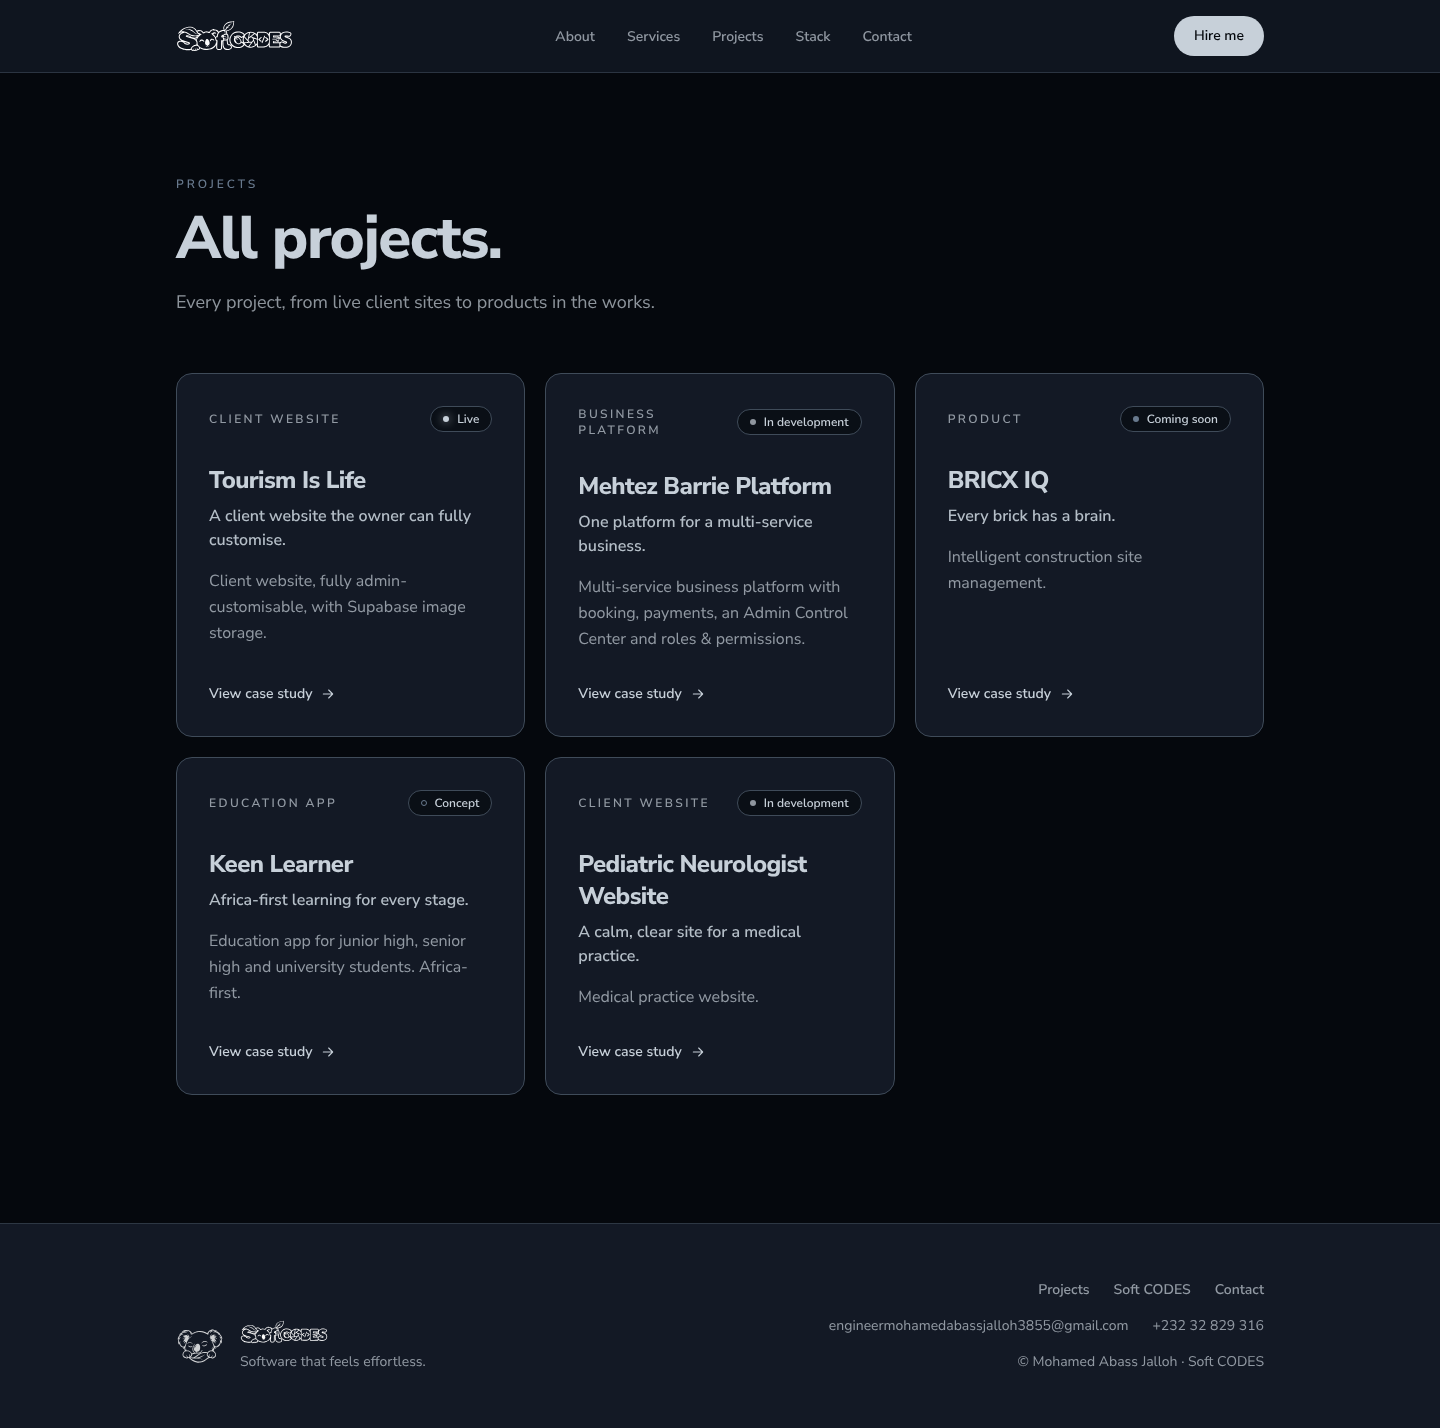
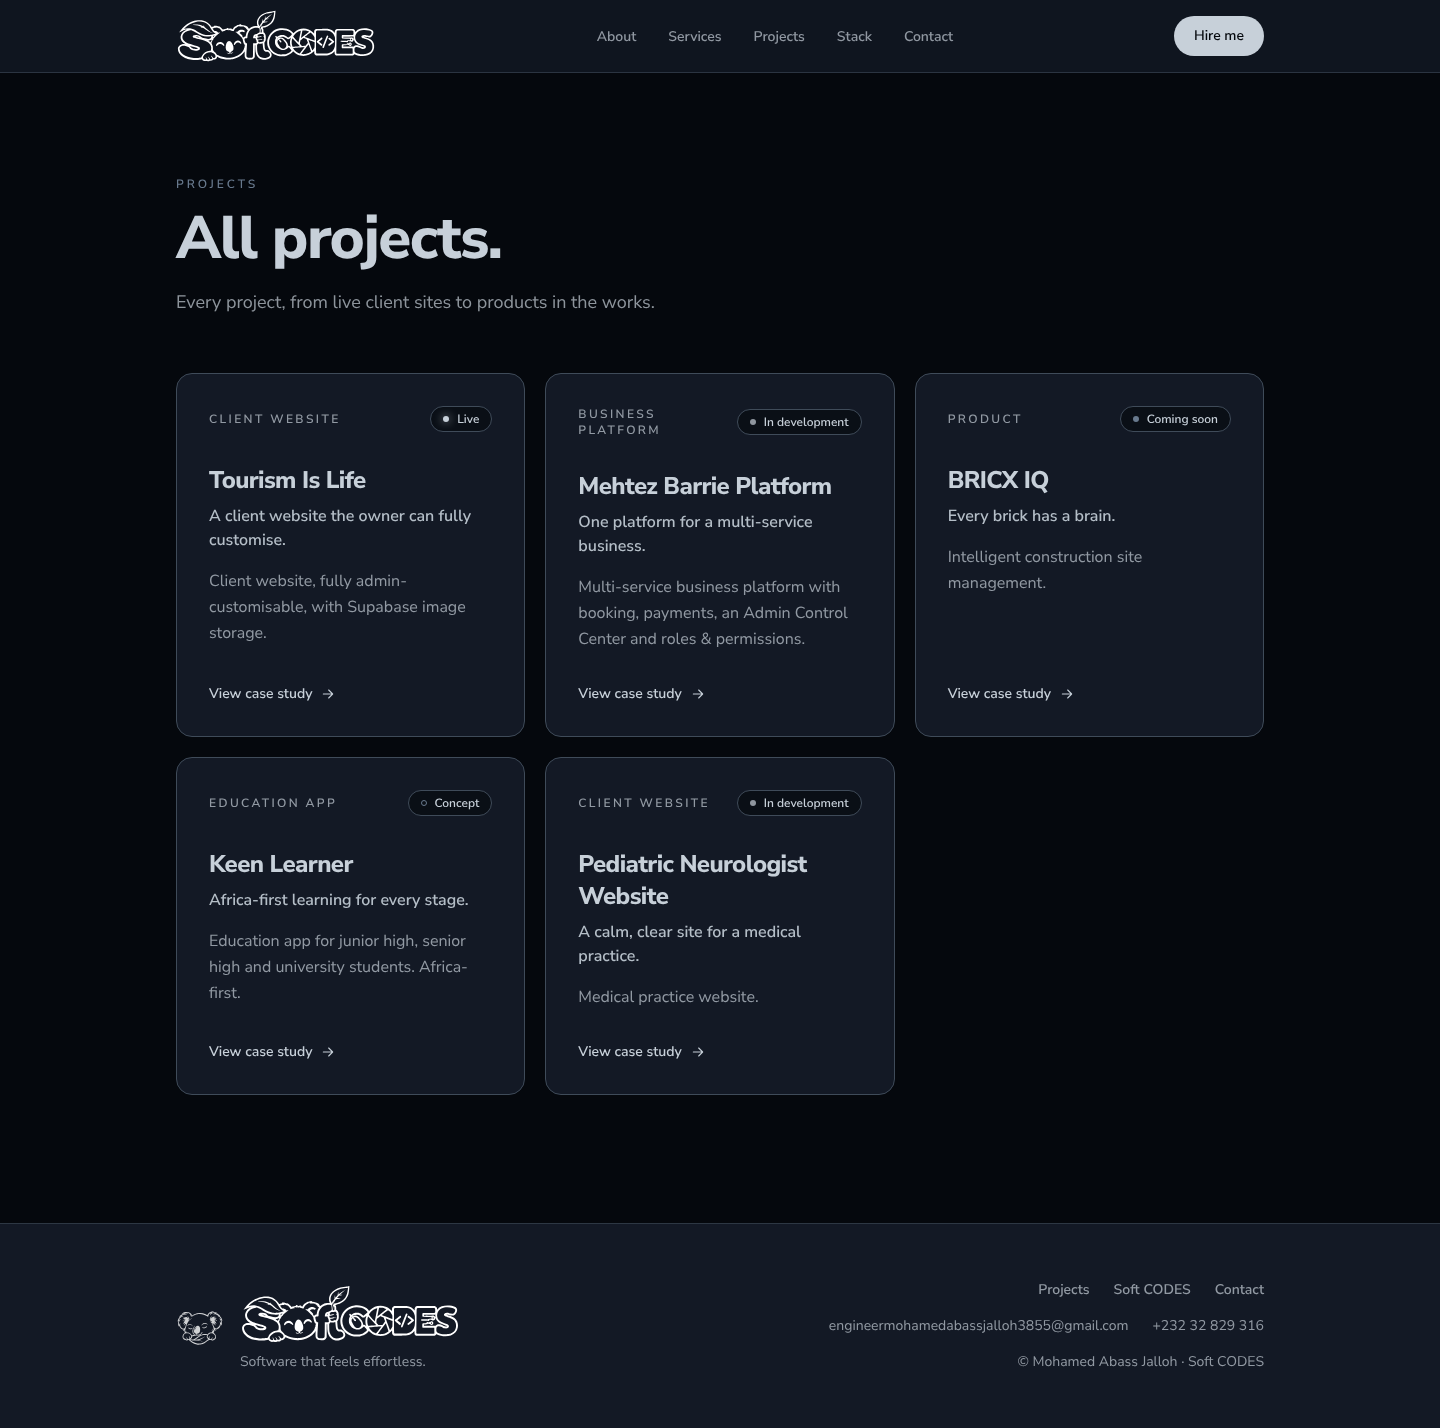
Larger nav/footer branding and balanced services grid
- Nav: koala icon (36px) + "Soft CODES" text below 1024px,
  full wordmark at 200px wide from 1024px up
- Footer: wordmark at 220px wide
- Services: last card spans 2 columns so the grid has no empty slot
- Refresh screenshots

Claude-Session: https://claude.ai/code/session_016r1yg8KumrwTQxZyYAFVpQ

diff --git a/src/components/Nav.tsx b/src/components/Nav.tsx
@@ -25,15 +25,33 @@ export function Nav() {
         Skip to content
       </a>
       <div className="mx-auto flex h-18 w-full max-w-6xl items-center justify-between gap-6 px-6 sm:px-8">
-        <Link href="/" className="shrink-0" aria-label={`${site.shortName} — home`}>
+        <Link
+          href="/"
+          className="flex shrink-0 items-center gap-2.5"
+          aria-label={`${site.shortName} — home`}
+        >
+          {/* < 1024px: koala icon + text */}
+          <Image
+            src="/brand/softcodes-icon-white.svg"
+            alt=""
+            width={977}
+            height={977}
+            priority
+            unoptimized
+            className="h-9 w-9 lg:hidden"
+          />
+          <span className="text-lg font-extrabold tracking-tight text-mist lg:hidden">
+            {site.shortName}
+          </span>
+          {/* ≥ 1024px: full wordmark */}
           <Image
             src="/brand/softcodes-logo-white.svg"
-            alt="Soft CODES"
+            alt=""
             width={2121}
             height={579}
             priority
             unoptimized
-            className="h-7 w-auto sm:h-8"
+            className="hidden h-auto w-[200px] min-w-[200px] lg:block"
           />
         </Link>
 

diff --git a/src/app/page.tsx b/src/app/page.tsx
@@ -143,7 +143,13 @@ function Services() {
     >
       <ul className="grid gap-5 sm:grid-cols-2 lg:grid-cols-3">
         {services.items.map((s, i) => (
-          <Reveal as="li" key={s.title} delay={i * 80}>
+          <Reveal
+            as="li"
+            key={s.title}
+            delay={i * 80}
+            // Last card spans 2 columns so the 2- and 3-column grids have no empty slot.
+            className={i === services.items.length - 1 ? "sm:col-span-2" : ""}
+          >
             <div className="glow h-full rounded-2xl border border-slate bg-night p-7 sm:p-8">
               <span className="flex h-11 w-11 items-center justify-center rounded-full border border-slate text-dusk">
                 <SparkIcon />

diff --git a/src/components/Footer.tsx b/src/components/Footer.tsx
@@ -22,7 +22,7 @@ export function Footer() {
               width={2121}
               height={579}
               unoptimized
-              className="h-6 w-auto"
+              className="h-auto w-[220px] min-w-[220px]"
             />
             <p className="mt-2 text-sm text-muted">{footer.tagline}</p>
           </div>
